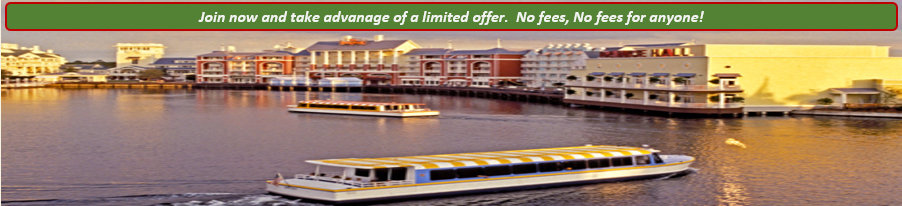
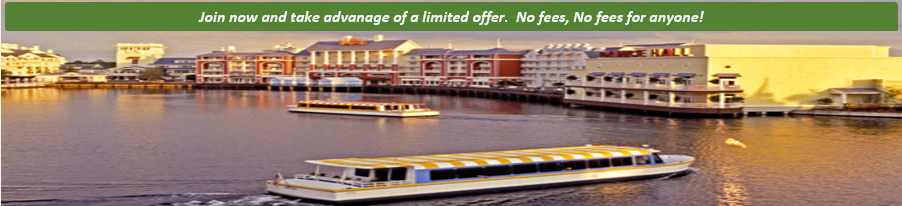
first commit

Changed region(s): [[0.0, 0.0, 1.0, 0.1748]]

diff --git a/assets/style/style.scss b/assets/style/style.scss
@@ -89,6 +89,8 @@ body {
 
   .mb-heading {
     h1 {
+      font-size: 2.5rem;
+      font-weight: bold;
       text-align: center;
       color: #1f4e79;
     }

diff --git a/assets/style/style.css b/assets/style/style.css
@@ -95,6 +95,8 @@ body {
 }
 
 .main-banner .mb-heading h1 {
+  font-size: 2.5rem;
+  font-weight: bold;
   text-align: center;
   color: #1f4e79;
 }
